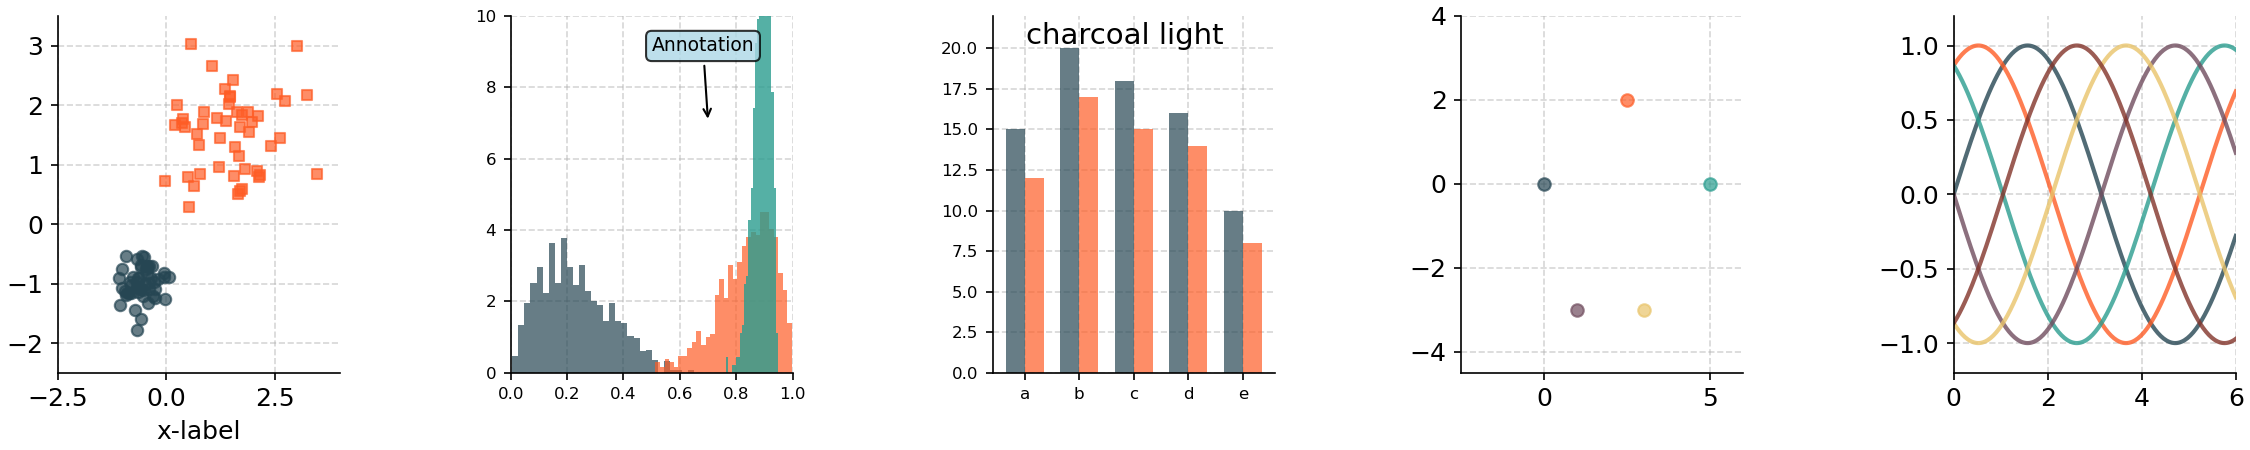
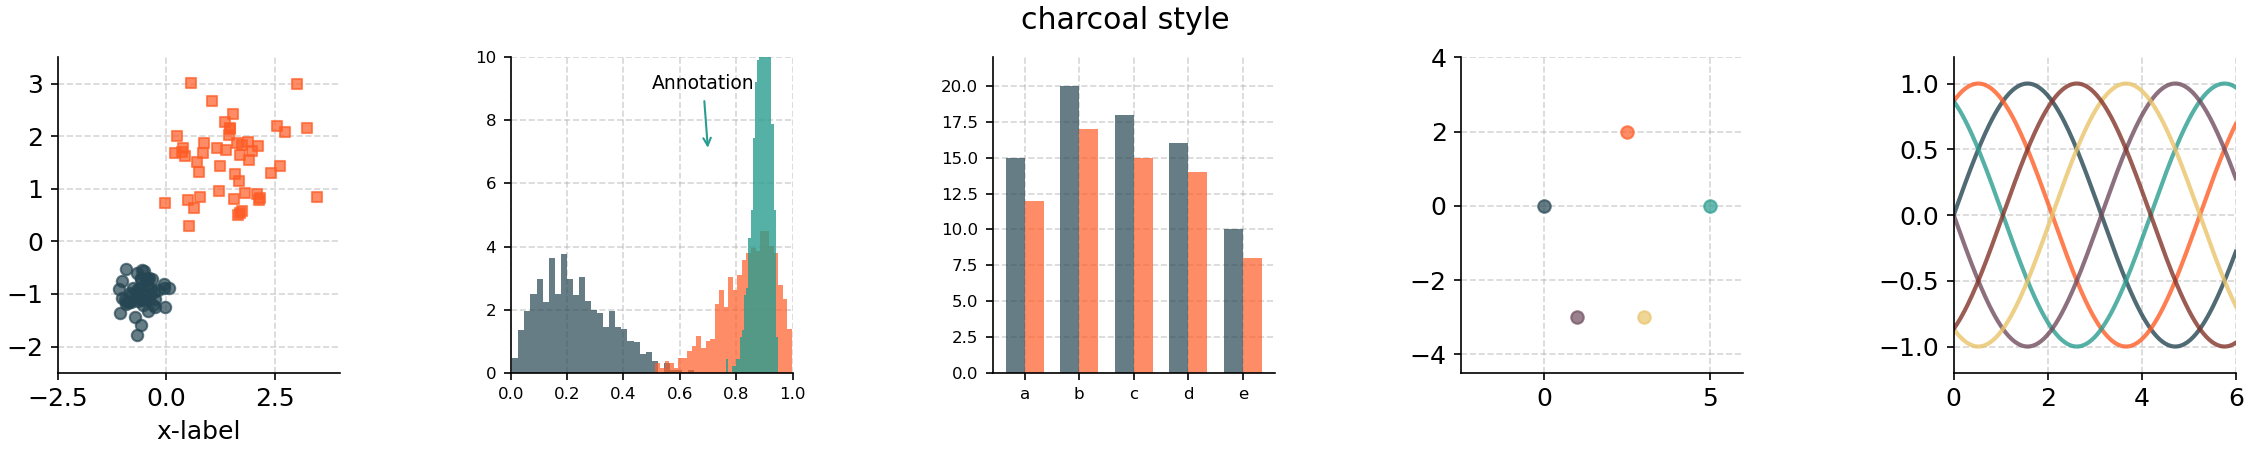
Remove 'papyrus' style and update plot title formatting in test_styles.py

diff --git a/test_styles.py b/test_styles.py
@@ -32,7 +32,7 @@ def plot_data(data, stylepath: Path, stylename: str):
         )
 
         # Add main title
-        fig.suptitle(f"{stylename} light", fontsize=14, fontweight="normal", y=0.95)
+        fig.suptitle(f"{stylename} style")
 
         # Subplot 1: Scatter plot
         ax1 = fig.add_subplot(gs[0])
@@ -68,14 +68,12 @@ def plot_data(data, stylepath: Path, stylename: str):
         ax2.hist(data["histogram"]["hist3"], bins=25, alpha=0.8, density=True)
 
         # Add annotation box and arrow
-        bbox_props = dict(boxstyle="round,pad=0.3", facecolor="lightblue", alpha=0.8)
         ax2.annotate(
             "Annotation",
             xy=(0.7, 7),
             xytext=(0.5, 9),
-            bbox=bbox_props,
             fontsize=9,
-            arrowprops=dict(arrowstyle="->", color="black", lw=1),
+            arrowprops=dict(arrowstyle="->", color="C2", lw=1),
         )
 
         ax2.set_xlim(0, 1)

diff --git a/mlp_personal_style/light/__init__.py b/mlp_personal_style/light/__init__.py
@@ -3,13 +3,11 @@ from pathlib import Path
 __current_dir = Path(__file__).parent
 
 ivorygrid = __current_dir / "ivorygrid.mplstyle"
-papyrus = __current_dir / "papyrus.mplstyle"
 forestlight = __current_dir / "forestlight.mplstyle"
 sealight = __current_dir / "sealight.mplstyle"
 
 avaiable_styles: dict[str, Path] = {
     "ivorygrid": ivorygrid,
-    "papyrus": papyrus,
     "forestlight": forestlight,
     "sealight": sealight,
 }
